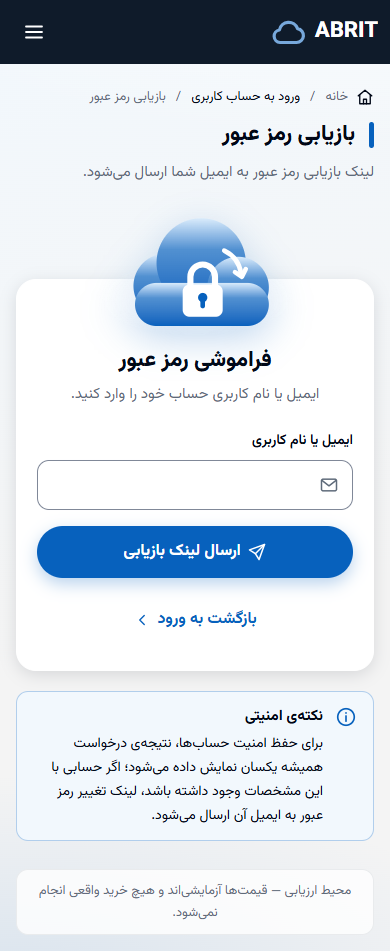
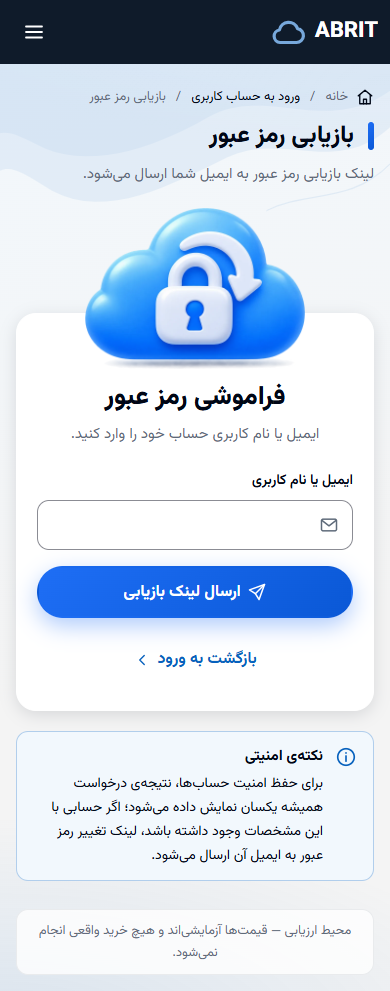
style(theme): match reference visuals

diff --git a/src/AbrIT.Theme/wwwroot/css/theme.css b/src/AbrIT.Theme/wwwroot/css/theme.css
@@ -239,7 +239,9 @@ body.abr-noscroll{overflow:hidden}
 /* ---- Shell: navy sidebar (right in RTL) + content column ---- */
 .abr-shell{display:grid;grid-template-columns:272px minmax(0,1fr);min-height:100vh}
 .abr-side{position:sticky;top:0;height:100vh;overflow-y:auto;background:var(--abr-nav-bg);color:var(--abr-nav-text);display:flex;flex-direction:column;gap:28px;padding:0 16px 24px;isolation:isolate}
-.abr-side::after{content:"";position:absolute;inset:auto 0 0 0;height:55%;background:radial-gradient(130% 60% at 0% 100%,color-mix(in srgb,var(--abr-primary) 55%,transparent) 0,transparent 70%);z-index:-1;pointer-events:none}
+.abr-wave{position:absolute;inset-inline:0;width:100%;z-index:-1;pointer-events:none;color:var(--abr-primary)}
+.abr-wave--side{bottom:0;height:380px}
+.abr-wave--top{top:72px;height:300px}
 .abr-side__head{height:72px;display:flex;align-items:center;justify-content:space-between;flex:none;padding-inline:8px}
 .abr-side__close{display:none;place-items:center;width:var(--abr-tap-min);height:var(--abr-tap-min);border:0;border-radius:var(--abr-radius-md);background:transparent;color:var(--abr-nav-text);cursor:pointer}
 .abr-brand{display:inline-flex;align-items:center;gap:10px;color:var(--abr-nav-text);font-weight:800;font-size:26px;line-height:1;direction:ltr;min-height:var(--abr-tap-min)}
@@ -249,7 +251,7 @@ body.abr-noscroll{overflow:hidden}
 .abr-sidenav ul{list-style:none;margin:0;padding:0;display:flex;flex-direction:column;gap:6px}
 .abr-app .abr-sidenav a{display:flex;align-items:center;gap:14px;min-height:52px;padding:0 16px;border-radius:var(--abr-radius-md);color:var(--abr-nav-muted);font-weight:500;font-size:16px;transition:background var(--abr-dur-fast) var(--abr-ease),color var(--abr-dur-fast) var(--abr-ease)}
 .abr-app .abr-sidenav a:hover{background:rgba(255,255,255,.07);color:var(--abr-nav-text);text-decoration:none}
-.abr-app .abr-sidenav a[aria-current=page]{background:linear-gradient(to left,var(--abr-primary),color-mix(in srgb,var(--abr-primary) 80%,white));color:var(--abr-on-primary);box-shadow:0 8px 20px color-mix(in srgb,var(--abr-primary) 40%,transparent)}
+.abr-app .abr-sidenav a[aria-current=page]{background:var(--abr-cta-gradient);color:var(--abr-on-primary);box-shadow:var(--abr-cta-glow)}
 .abr-sidenav__ext{opacity:.75}
 
 .abr-helpcard{margin-top:auto;background:rgba(255,255,255,.06);border:1px solid rgba(255,255,255,.14);border-radius:var(--abr-radius-lg);padding:20px;display:flex;flex-direction:column;align-items:flex-start;gap:6px;backdrop-filter:blur(6px)}
@@ -260,7 +262,7 @@ body.abr-noscroll{overflow:hidden}
 .abr-app .abr-btn--inverse:hover{background:var(--abr-primary-soft)}
 
 /* ---- Content column ---- */
-.abr-body{display:flex;flex-direction:column;min-width:0;min-height:100vh;
+.abr-body{position:relative;isolation:isolate;display:flex;flex-direction:column;min-width:0;min-height:100vh;
   background:
     radial-gradient(900px 380px at 100% -120px,var(--abr-surface) 0,transparent 70%),
     radial-gradient(760px 320px at 0% 105%,color-mix(in srgb,var(--abr-primary) 12%,transparent) 0,transparent 70%),
@@ -306,13 +308,18 @@ body.abr-noscroll{overflow:hidden}
 .abr-app .abr-crumb a{display:inline-flex;align-items:center;gap:8px;min-height:24px;color:var(--abr-text)}
 .abr-crumb a .abr-ico{color:var(--abr-text)}
 .abr-crumb [aria-current]{color:var(--abr-text-2)}
-.abr-h1--bar{display:flex;align-items:center;gap:14px;font-weight:800}
-.abr-h1--bar::before{content:"";width:5px;height:34px;border-radius:3px;background:var(--abr-primary);flex:none}
+.abr-app .abr-h1{font-size:var(--abr-fs-h1);line-height:var(--abr-lh-h1);font-weight:var(--abr-fw-heavy)}
+.abr-h1--bar{display:flex;align-items:center;gap:14px}
+.abr-h1--bar::before{content:"";width:6px;height:38px;border-radius:3px;background:var(--abr-cta-gradient);flex:none}
+.abr-app .abr-main{position:relative}
+.abr-corner-art{position:absolute;top:8px;inset-inline-end:36px;width:200px;height:auto;pointer-events:none;z-index:0}
+.abr-main>*:not(.abr-corner-art){position:relative;z-index:1}
 .abr-pagehead__art{flex:none;width:220px}
 .abr-pagehead__art svg{width:100%;height:auto;display:block}
 
 /* ---- Buttons / badges / alerts additions ---- */
-.abr-app .abr-btn--primary{box-shadow:0 6px 16px color-mix(in srgb,var(--abr-primary) 28%,transparent)}
+.abr-app .abr-btn--primary{background:var(--abr-cta-gradient);box-shadow:var(--abr-cta-glow);transition:filter var(--abr-dur-fast) var(--abr-ease),box-shadow var(--abr-dur-fast) var(--abr-ease)}
+.abr-app .abr-btn--primary:hover{background:var(--abr-cta-gradient);filter:brightness(.92);box-shadow:0 10px 26px rgba(30,110,245,.42)}
 .abr-app .abr-btn--lg{min-height:52px;font-size:16px}
 .abr-badge .abr-ico{margin-inline-end:-2px}
 .abr-alert{border-color:color-mix(in srgb,currentColor 28%,transparent);align-items:flex-start}
@@ -346,13 +353,17 @@ body.abr-noscroll{overflow:hidden}
 
 /* ---- Auth pages ---- */
 .abr-authpage{display:flex;flex-direction:column;gap:28px}
-.abr-auth-split{display:grid;grid-template-columns:minmax(0,1fr) minmax(360px,420px);gap:28px;align-items:start}
-.abr-hero{background:linear-gradient(160deg,var(--abr-surface) 0%,var(--abr-primary-soft) 100%);border:1px solid var(--abr-surface);border-radius:24px;box-shadow:var(--abr-shadow-1);padding:32px;display:flex;flex-direction:column;justify-content:space-between;gap:28px}
-.abr-hero__top{display:grid;grid-template-columns:minmax(0,1fr) minmax(0,1fr);gap:16px;align-items:center;min-height:300px}
-.abr-hero__title{font-size:28px;line-height:44px;font-weight:800;text-wrap:balance}
+.abr-auth-split{display:grid;grid-template-columns:minmax(0,1fr) minmax(360px,420px);gap:28px;align-items:stretch}
+.abr-hero{background:var(--abr-hero-gradient);border:1px solid var(--abr-surface);border-radius:24px;box-shadow:var(--abr-shadow-1);padding:28px 32px;display:flex;flex-direction:column;gap:20px}
+.abr-hero__top{flex:1;display:grid;grid-template-columns:minmax(0,1fr) 48%;gap:12px;align-items:center}
+.abr-hero__title{font-size:30px;line-height:46px;font-weight:var(--abr-fw-heavy);text-wrap:balance}
 .abr-hero__brand{color:var(--abr-primary)}
 .abr-hero__sub{margin-top:10px;color:var(--abr-text-2);font-size:17px;line-height:30px}
-.abr-hero__art svg{width:100%;height:auto;display:block}
+.abr-hero__art img{width:100%;height:auto;display:block;margin-inline-end:-8px}
+/* tall card (register, ref 02): illustration on top, centred text under it */
+.abr-auth-split--tall .abr-hero__top{grid-template-columns:1fr;justify-items:center;text-align:center;align-content:center;gap:8px}
+.abr-auth-split--tall .abr-hero__art{order:-1;width:78%}
+.abr-auth-split--tall .abr-hero__title{font-size:34px;line-height:50px}
 .abr-features{display:grid;grid-template-columns:repeat(4,minmax(0,1fr));gap:12px;list-style:none;margin:0;padding:0}
 .abr-features li{background:var(--abr-surface);border:1px solid var(--abr-border);border-radius:var(--abr-radius-lg);padding:16px 8px;display:flex;flex-direction:column;align-items:center;text-align:center;gap:4px;box-shadow:var(--abr-shadow-1)}
 .abr-features .abr-ico{color:var(--abr-primary);margin-bottom:6px}
@@ -364,7 +375,7 @@ body.abr-noscroll{overflow:hidden}
 .abr-auth__head{display:flex;flex-direction:column;align-items:center;text-align:center;gap:4px}
 .abr-auth__logo{display:flex;flex-direction:column;align-items:center;color:var(--abr-primary);margin-bottom:4px}
 .abr-auth__logo span{color:var(--abr-text);font-weight:800;font-size:26px;line-height:30px;direction:ltr}
-.abr-auth__title{font-size:26px;line-height:40px;font-weight:800}
+.abr-auth__title{font-size:var(--abr-fs-card-title);line-height:var(--abr-lh-card-title);font-weight:var(--abr-fw-heavy)}
 .abr-auth__sub{color:var(--abr-text-2);font-size:15px}
 .abr-auth__foot{display:flex;flex-direction:column;align-items:center;gap:0}
 .abr-app .abr-auth__link,.abr-app .abr-backlink{display:inline-flex;align-items:center;justify-content:center;gap:6px;min-height:var(--abr-tap-min);font-weight:700;font-size:16px;align-self:center}
@@ -374,9 +385,9 @@ body.abr-noscroll{overflow:hidden}
 .abr-auth__divider::before,.abr-auth__divider::after{content:"";flex:1;border-top:1px solid var(--abr-border)}
 
 .abr-authstack{width:100%;max-width:580px;margin-inline:auto;display:flex;flex-direction:column;align-items:stretch}
-.abr-authstack__art{display:flex;justify-content:center;margin-bottom:-58px;position:relative;z-index:1;pointer-events:none}
-.abr-authstack__art svg{width:250px;height:auto;display:block;filter:drop-shadow(0 12px 18px color-mix(in srgb,var(--abr-primary) 25%,transparent))}
-.abr-authstack .abr-auth{padding-top:72px}
+.abr-authstack__art{display:flex;justify-content:center;margin-bottom:-56px;position:relative;z-index:1;pointer-events:none}
+.abr-authstack__art img{width:240px;height:auto;display:block}
+.abr-authstack .abr-auth{padding-top:80px}
 .abr-authpage>.abr-alert{max-width:880px;width:100%;margin-inline:auto}
 
 /* ---- Stepper (AbrStepper shape): horizontal → vertical on phones ---- */
@@ -412,7 +423,7 @@ body.abr-noscroll{overflow:hidden}
   .abr-app .abr-main{padding:24px 32px 32px}
   .abr-evalbar{margin:0 32px 24px}
   .abr-auth-split{grid-template-columns:1fr}
-  .abr-hero,.abr-pagehead__art{display:none}
+  .abr-hero,.abr-pagehead__art,.abr-corner-art{display:none}
   .abr-auth-split .abr-auth{max-width:560px;margin-inline:auto}
 }
 
@@ -434,12 +445,14 @@ body.abr-noscroll{overflow:hidden}
   .abr-app .abr-main{padding:20px 16px 28px}
   .abr-evalbar{margin:0 16px 16px}
   .abr-authpage{gap:20px}
-  .abr-h1--bar::before{height:26px}
+  .abr-app .abr-h1{font-size:var(--abr-fs-h1-m);line-height:var(--abr-lh-h1-m)}
+  .abr-h1--bar::before{height:28px}
+  .abr-wave--top{top:64px;height:200px}
   .abr-crumb ol{font-size:13px}
   .abr-app .abr-auth{padding:28px 20px;border-radius:20px}
   .abr-auth__badge{position:static;align-self:center}
-  .abr-auth__title{font-size:22px;line-height:34px}
-  .abr-authstack__art svg{width:200px}
+
+  .abr-authstack__art img{width:220px}
   .abr-authstack .abr-auth{padding-top:64px}
   .abr-stepper{flex-direction:column}
   .abr-stepper__item{flex-direction:row;align-items:flex-start;text-align:start;gap:12px;padding-bottom:20px}

diff --git a/design-system/tokens.css b/design-system/tokens.css
@@ -39,6 +39,14 @@
   --abr-primary-soft:   var(--abr-blue-50);
   --abr-on-primary:     var(--abr-gray-0);       /* 6.08:1 */
 
+  /* bright CTA gradient (E-1 polish). White text: 4.56:1 on the light end, 6.21:1 on the dark end.
+     (#2B7BFF from the references measured 3.90:1, so the light end was darkened to #1E6EF5.) */
+  --abr-cta-from:       #1E6EF5;
+  --abr-cta-to:         #0A58D6;
+  --abr-cta-gradient:   linear-gradient(135deg, var(--abr-cta-from) 0%, var(--abr-cta-to) 100%);
+  --abr-cta-glow:       0 8px 22px rgba(30, 110, 245, .35);
+  --abr-hero-gradient:  linear-gradient(160deg, #EAF3FF 0%, #F8FBFF 100%);   /* hero/welcome card fill */
+
   --abr-nav-bg:         var(--abr-navy-900);
   --abr-nav-text:       var(--abr-gray-0);
   --abr-nav-muted:      var(--abr-gray-500);     /* 9.25:1 on nav */
@@ -68,14 +76,15 @@
 
   /* scale (px / line-height). Persian needs taller lines than Latin. */
   --abr-fs-display: 32px; --abr-lh-display: 44px;   /* prices, stat numbers */
-  --abr-fs-h1:      28px; --abr-lh-h1:      42px;   /* page title (mobile: h1-m) */
-  --abr-fs-h1-m:    22px; --abr-lh-h1-m:    34px;
+  --abr-fs-h1:      34px; --abr-lh-h1:      50px;   /* page title (mobile: h1-m), weight 800 */
+  --abr-fs-h1-m:    24px; --abr-lh-h1-m:    36px;
+  --abr-fs-card-title: 26px; --abr-lh-card-title: 40px; /* auth/hero card titles, weight 800 */
   --abr-fs-h2:      20px; --abr-lh-h2:      32px;   /* plan name, section */
   --abr-fs-h3:      18px; --abr-lh-h3:      28px;   /* container title */
   --abr-fs-body:    15px; --abr-lh-body:    26px;   /* default */
   --abr-fs-sm:      13px; --abr-lh-sm:      22px;   /* labels, notes, table head */
   --abr-fs-xs:      12px; --abr-lh-xs:      20px;   /* badges, captions — minimum size */
-  --abr-fw-regular: 400; --abr-fw-medium: 500; --abr-fw-semibold: 600; --abr-fw-bold: 700;
+  --abr-fw-regular: 400; --abr-fw-medium: 500; --abr-fw-semibold: 600; --abr-fw-bold: 700; --abr-fw-heavy: 800;
 
   /* ---------- 4. Spacing (4-pt grid) ---------- */
   --abr-space-1: 4px;  --abr-space-2: 8px;  --abr-space-3: 12px; --abr-space-4: 16px;

diff --git a/design-system/README.md b/design-system/README.md
@@ -52,7 +52,8 @@ Rules:
 | Token | Size / line | Weight | Use |
 |---|---|---|---|
 | display | 32 / 44 | 700 | prices, stat numbers |
-| h1 | 28 / 42 (mobile 22 / 34) | 700 | page title, one per page |
+| h1 | 34 / 50 (mobile 24 / 36) | 800 | page title, one per page |
+| card-title | 26 / 40 | 800 | auth / hero card titles |
 | h2 | 20 / 32 | 700 | section, plan name |
 | h3 | 18 / 28 | 700 | container title |
 | body | **15 / 26** | 400 | default text |
